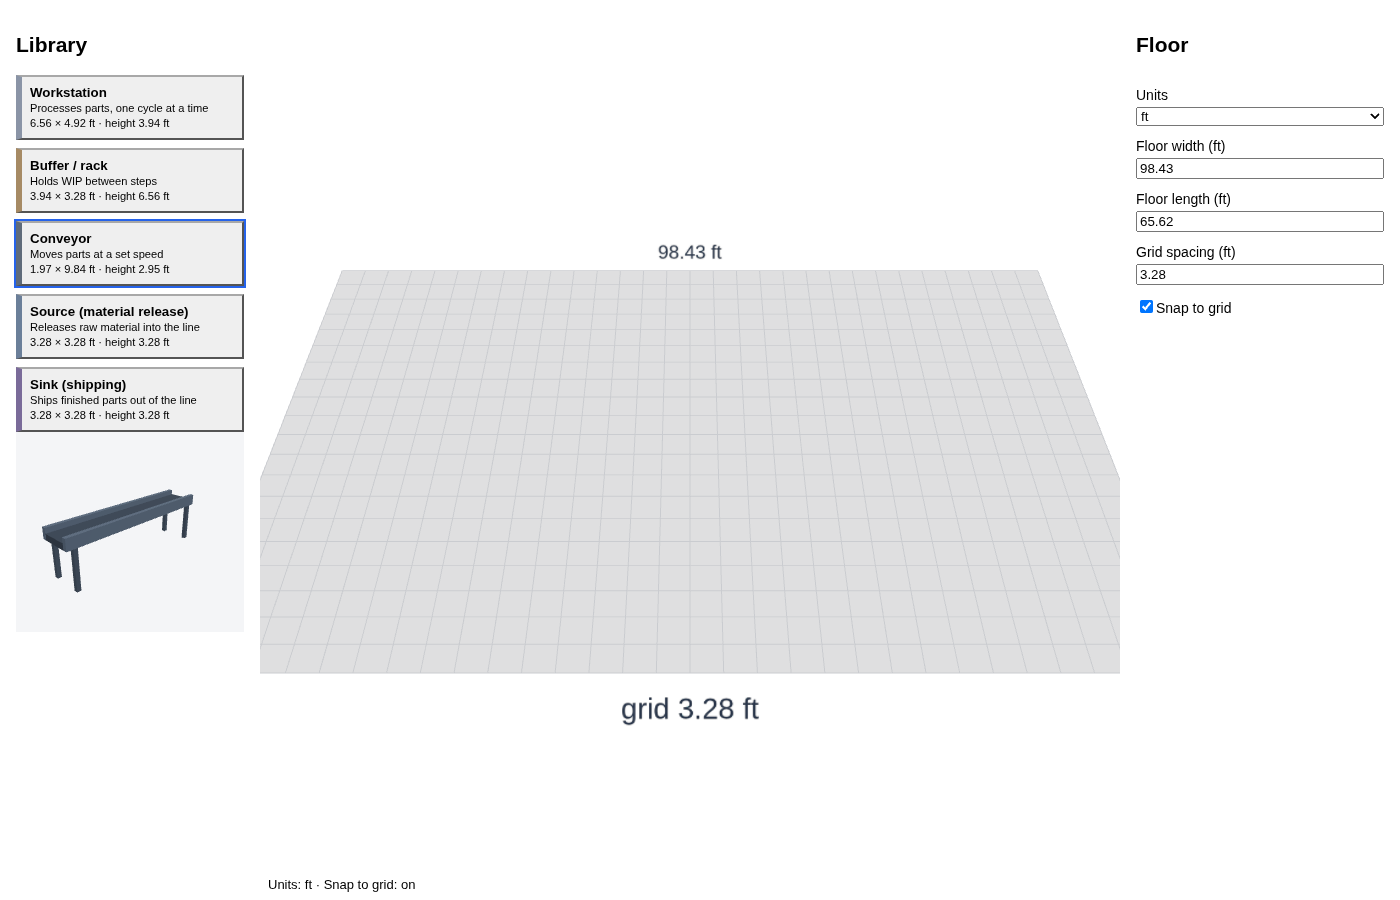
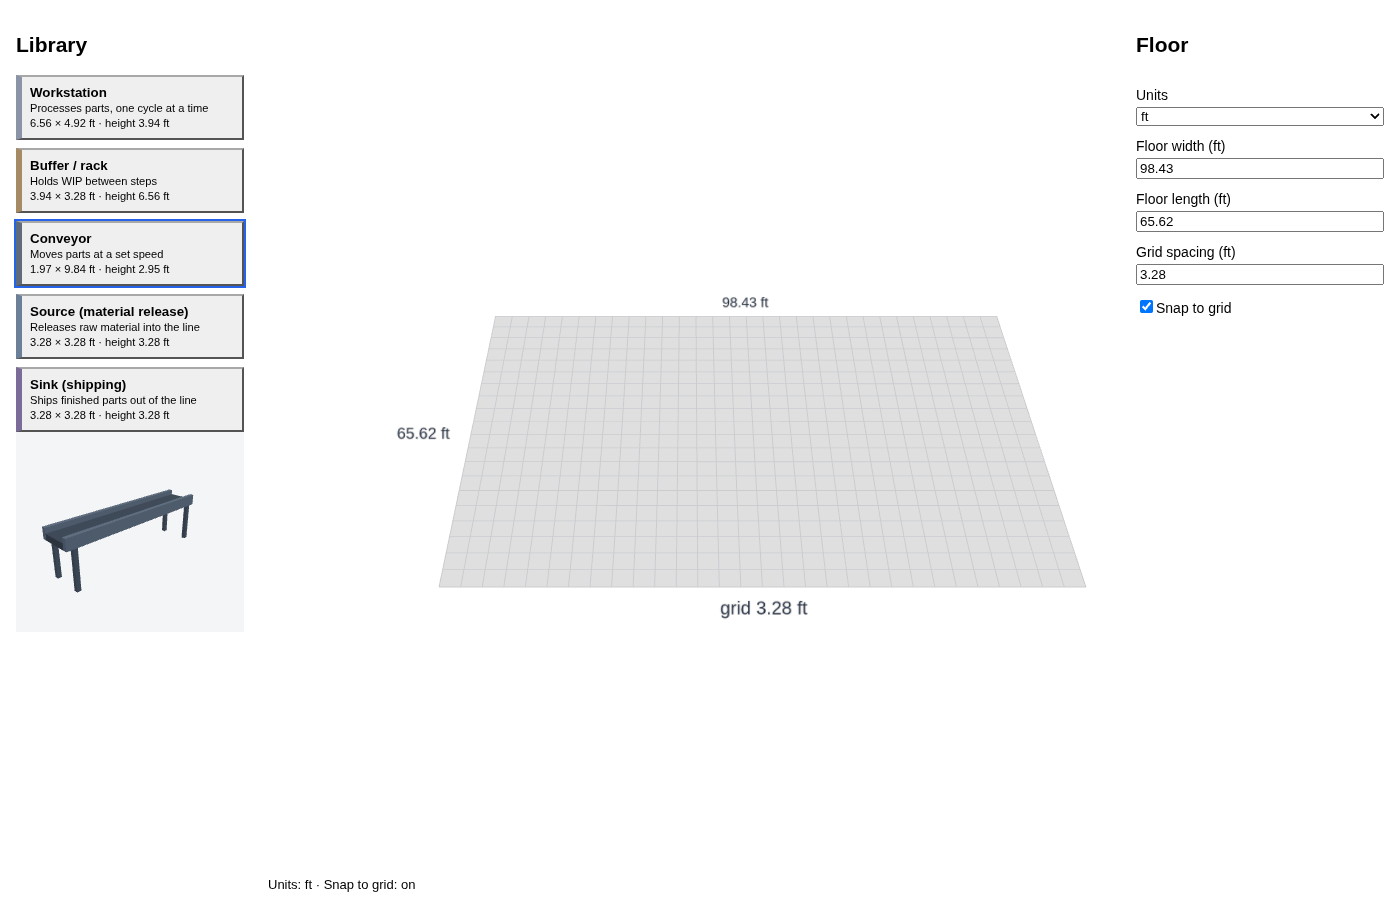
EQ-1: fit camera to floor and labels for the canvas aspect

Changed region(s): [[0.1843, 0.2489, 0.7986, 0.8089]]

diff --git a/apps/web/src/layout/cameraFit.test.ts b/apps/web/src/layout/cameraFit.test.ts
@@ -1,0 +1,75 @@
+import { describe, expect, it } from 'vitest';
+import * as THREE from 'three';
+import { fitCamera, labelLayout, planBounds } from './cameraFit';
+
+const FOV = 45;
+
+/** Projects a plan point (x, z at height y) through the fitted camera into NDC. */
+function ndc(
+  fit: ReturnType<typeof fitCamera>,
+  aspect: number,
+  [x, y, z]: [number, number, number],
+) {
+  const cam = new THREE.PerspectiveCamera(FOV, aspect, 0.1, 5000);
+  cam.position.set(...fit.position);
+  cam.lookAt(...fit.target);
+  cam.updateMatrixWorld();
+  cam.updateProjectionMatrix();
+  return new THREE.Vector3(x, y, z).project(cam);
+}
+
+describe('fitCamera: the floor and its labels fit the canvas aspect', () => {
+  const floors = [
+    { width: 30, length: 20 },
+    { width: 98.43 * 0.3048, length: 65.62 * 0.3048 },
+    { width: 10, length: 80 },
+    { width: 200, length: 5 },
+  ];
+  for (const aspect of [0.5, 1, 16 / 9, 3]) {
+    for (const floor of floors) {
+      it(`${floor.width} × ${floor.length} m at aspect ${aspect.toFixed(2)} stays inside the view`, () => {
+        const fit = fitCamera({ ...floor, aspect, fovDeg: FOV });
+        const b = planBounds(floor);
+        for (const x of [b.minX, b.maxX])
+          for (const z of [b.minZ, b.maxZ]) {
+            const p = ndc(fit, aspect, [x, 0, z]);
+            expect(Math.abs(p.x)).toBeLessThanOrEqual(1);
+            expect(Math.abs(p.y)).toBeLessThanOrEqual(1);
+          }
+      });
+    }
+  }
+
+  it('a narrow canvas needs a longer distance than a wide one for the same floor', () => {
+    const floor = { width: 30, length: 20 };
+    const dist = (aspect: number) => {
+      const f = fitCamera({ ...floor, aspect, fovDeg: FOV });
+      return Math.hypot(
+        f.position[0] - f.target[0],
+        f.position[1] - f.target[1],
+        f.position[2] - f.target[2],
+      );
+    };
+    expect(dist(0.6)).toBeGreaterThan(dist(2.5));
+  });
+
+  it('is tight: the limiting dimension nearly fills the canvas', () => {
+    const floor = { width: 30, length: 20 };
+    const fit = fitCamera({ ...floor, aspect: 1.5, fovDeg: FOV });
+    const b = planBounds(floor);
+    const extent = [b.minX, b.maxX].flatMap((x) =>
+      [b.minZ, b.maxZ].map((z) => {
+        const p = ndc(fit, 1.5, [x, 0, z]);
+        return Math.max(Math.abs(p.x), Math.abs(p.y));
+      }),
+    );
+    // Whichever dimension limits the fit should nearly fill the canvas (PAD leaves ~5%).
+    expect(Math.max(...extent)).toBeGreaterThan(0.9);
+  });
+
+  it('the length label lies inside the plan bounds', () => {
+    const floor = { width: 30, length: 20 };
+    const { lengthLabel, textHeight } = labelLayout(floor);
+    expect(lengthLabel[0] - 2 * textHeight).toBeGreaterThanOrEqual(planBounds(floor).minX);
+  });
+});

diff --git a/apps/web/src/layout/FloorScene.tsx b/apps/web/src/layout/FloorScene.tsx
@@ -4,6 +4,7 @@ import { OrbitControls } from '@react-three/drei';
 import * as THREE from 'three';
 import { useEditorStore } from './editorStore';
 import { gridLinePositions } from './gridLayout';
+import { fitCamera, labelLayout } from './cameraFit';
 import { formatLength } from './units';
 
 /** Floor plan (x, y) maps to three's ground plane (x, z); y is up. */
@@ -62,44 +63,40 @@ type Vec3 = [number, number, number];
 function DimensionLabels() {
   const floor = useEditorStore((s) => s.floor);
   const unit = useEditorStore((s) => s.unit);
-  const h = Math.max(floor.width, floor.length) * 0.035;
-  const off = h * 1.2;
+  const { textHeight: h, widthLabel, lengthLabel, gridLabel } = labelLayout(floor);
   return (
     <>
-      <TextLabel
-        text={formatLength(floor.width, unit)}
-        position={[floor.width / 2, 0, -off]}
-        height={h}
-      />
-      <TextLabel
-        text={formatLength(floor.length, unit)}
-        position={[-off * 2, 0, floor.length / 2]}
-        height={h}
-      />
+      <TextLabel text={formatLength(floor.width, unit)} position={widthLabel} height={h} />
+      <TextLabel text={formatLength(floor.length, unit)} position={lengthLabel} height={h} />
       <TextLabel
         text={`grid ${formatLength(floor.gridSpacing, unit)}`}
-        position={[floor.width / 2, 0, floor.length + off]}
+        position={gridLabel}
         height={h}
       />
     </>
   );
 }
 
-/** Refits the camera when the floor size changes (the Canvas camera prop only applies once). */
+/**
+ * Refits the camera when the floor size or the canvas size changes, so the floor and its labels
+ * fill the canvas whatever its aspect (the Canvas camera prop only applies once).
+ */
 function CameraRig() {
   const width = useEditorStore((s) => s.floor.width);
   const length = useEditorStore((s) => s.floor.length);
+  const size = useThree((s) => s.size);
   const camera = useThree((s) => s.camera);
   const controls = useThree((s) => s.controls) as {
     target: { set(...a: number[]): void };
     update(): void;
   } | null;
   useEffect(() => {
-    const reach = Math.max(width, length);
-    camera.position.set(width / 2, reach * 0.9, length / 2 + reach * 0.9);
-    controls?.target.set(width / 2, 0, length / 2);
+    const fovDeg = camera instanceof THREE.PerspectiveCamera ? camera.fov : 45;
+    const fit = fitCamera({ width, length, aspect: size.width / size.height, fovDeg });
+    camera.position.set(...fit.position);
+    controls?.target.set(...fit.target);
     controls?.update();
-  }, [width, length, camera, controls]);
+  }, [width, length, size.width, size.height, camera, controls]);
   return null;
 }
 

diff --git a/apps/web/src/layout/cameraFit.ts b/apps/web/src/layout/cameraFit.ts
@@ -1,0 +1,73 @@
+type Vec3 = [number, number, number];
+interface FloorSize {
+  width: number;
+  length: number;
+}
+
+/** Where the three dimension labels sit (plan x, y=0, plan z), sized in meters with the floor. */
+export function labelLayout(floor: FloorSize) {
+  const textHeight = Math.max(floor.width, floor.length) * 0.035;
+  const offset = textHeight * 1.2;
+  return {
+    textHeight,
+    offset,
+    widthLabel: [floor.width / 2, 0, -offset] as Vec3,
+    lengthLabel: [-offset * 2, 0, floor.length / 2] as Vec3,
+    gridLabel: [floor.width / 2, 0, floor.length + offset] as Vec3,
+  };
+}
+
+/**
+ * Plan-view rectangle holding the floor and all labels. Label text width isn't known here, so
+ * the left side reserves 4 text heights each way of the length label's center (the widest
+ * label, e.g. "65.62 ft", is about 4 heights wide, so this is 2x its half-width).
+ */
+export function planBounds(floor: FloorSize) {
+  const { textHeight: h, offset } = labelLayout(floor);
+  return {
+    minX: -2 * offset - 4 * h,
+    maxX: floor.width,
+    minZ: -offset - h,
+    maxZ: floor.length + offset + h,
+  };
+}
+
+/** Camera elevation: looks down at 45° from the +z side, like the original fixed pose. */
+const ELEVATION = Math.PI / 4;
+/** Breathing room around the fitted bounds. */
+const PAD = 1.05;
+
+/**
+ * Smallest distance, along a fixed 45° view direction, at which the floor and its labels fit
+ * a perspective camera of the given vertical fov and canvas aspect (width / height).
+ * Exact for perspective: each bounds corner constrains the distance separately.
+ */
+export function fitCamera(opts: FloorSize & { aspect: number; fovDeg: number }): {
+  position: Vec3;
+  target: Vec3;
+  distance: number;
+} {
+  const b = planBounds(opts);
+  const target: Vec3 = [(b.minX + b.maxX) / 2, 0, (b.minZ + b.maxZ) / 2];
+  const u: Vec3 = [0, Math.sin(ELEVATION), Math.cos(ELEVATION)]; // target → camera
+  const up: Vec3 = [0, Math.cos(ELEVATION), -Math.sin(ELEVATION)];
+  const t = Math.tan((opts.fovDeg * Math.PI) / 360);
+  let distance = 0;
+  for (const x of [b.minX, b.maxX])
+    for (const z of [b.minZ, b.maxZ]) {
+      const q: Vec3 = [x - target[0], 0, z - target[2]];
+      const along = q[1] * u[1] + q[2] * u[2]; // q · u
+      const screenY = Math.abs(q[1] * up[1] + q[2] * up[2]);
+      const screenX = Math.abs(q[0]);
+      distance = Math.max(
+        distance,
+        along + (PAD * screenY) / t,
+        along + (PAD * screenX) / (t * opts.aspect),
+      );
+    }
+  return {
+    distance,
+    target,
+    position: [target[0] + u[0] * distance, u[1] * distance, target[2] + u[2] * distance],
+  };
+}
